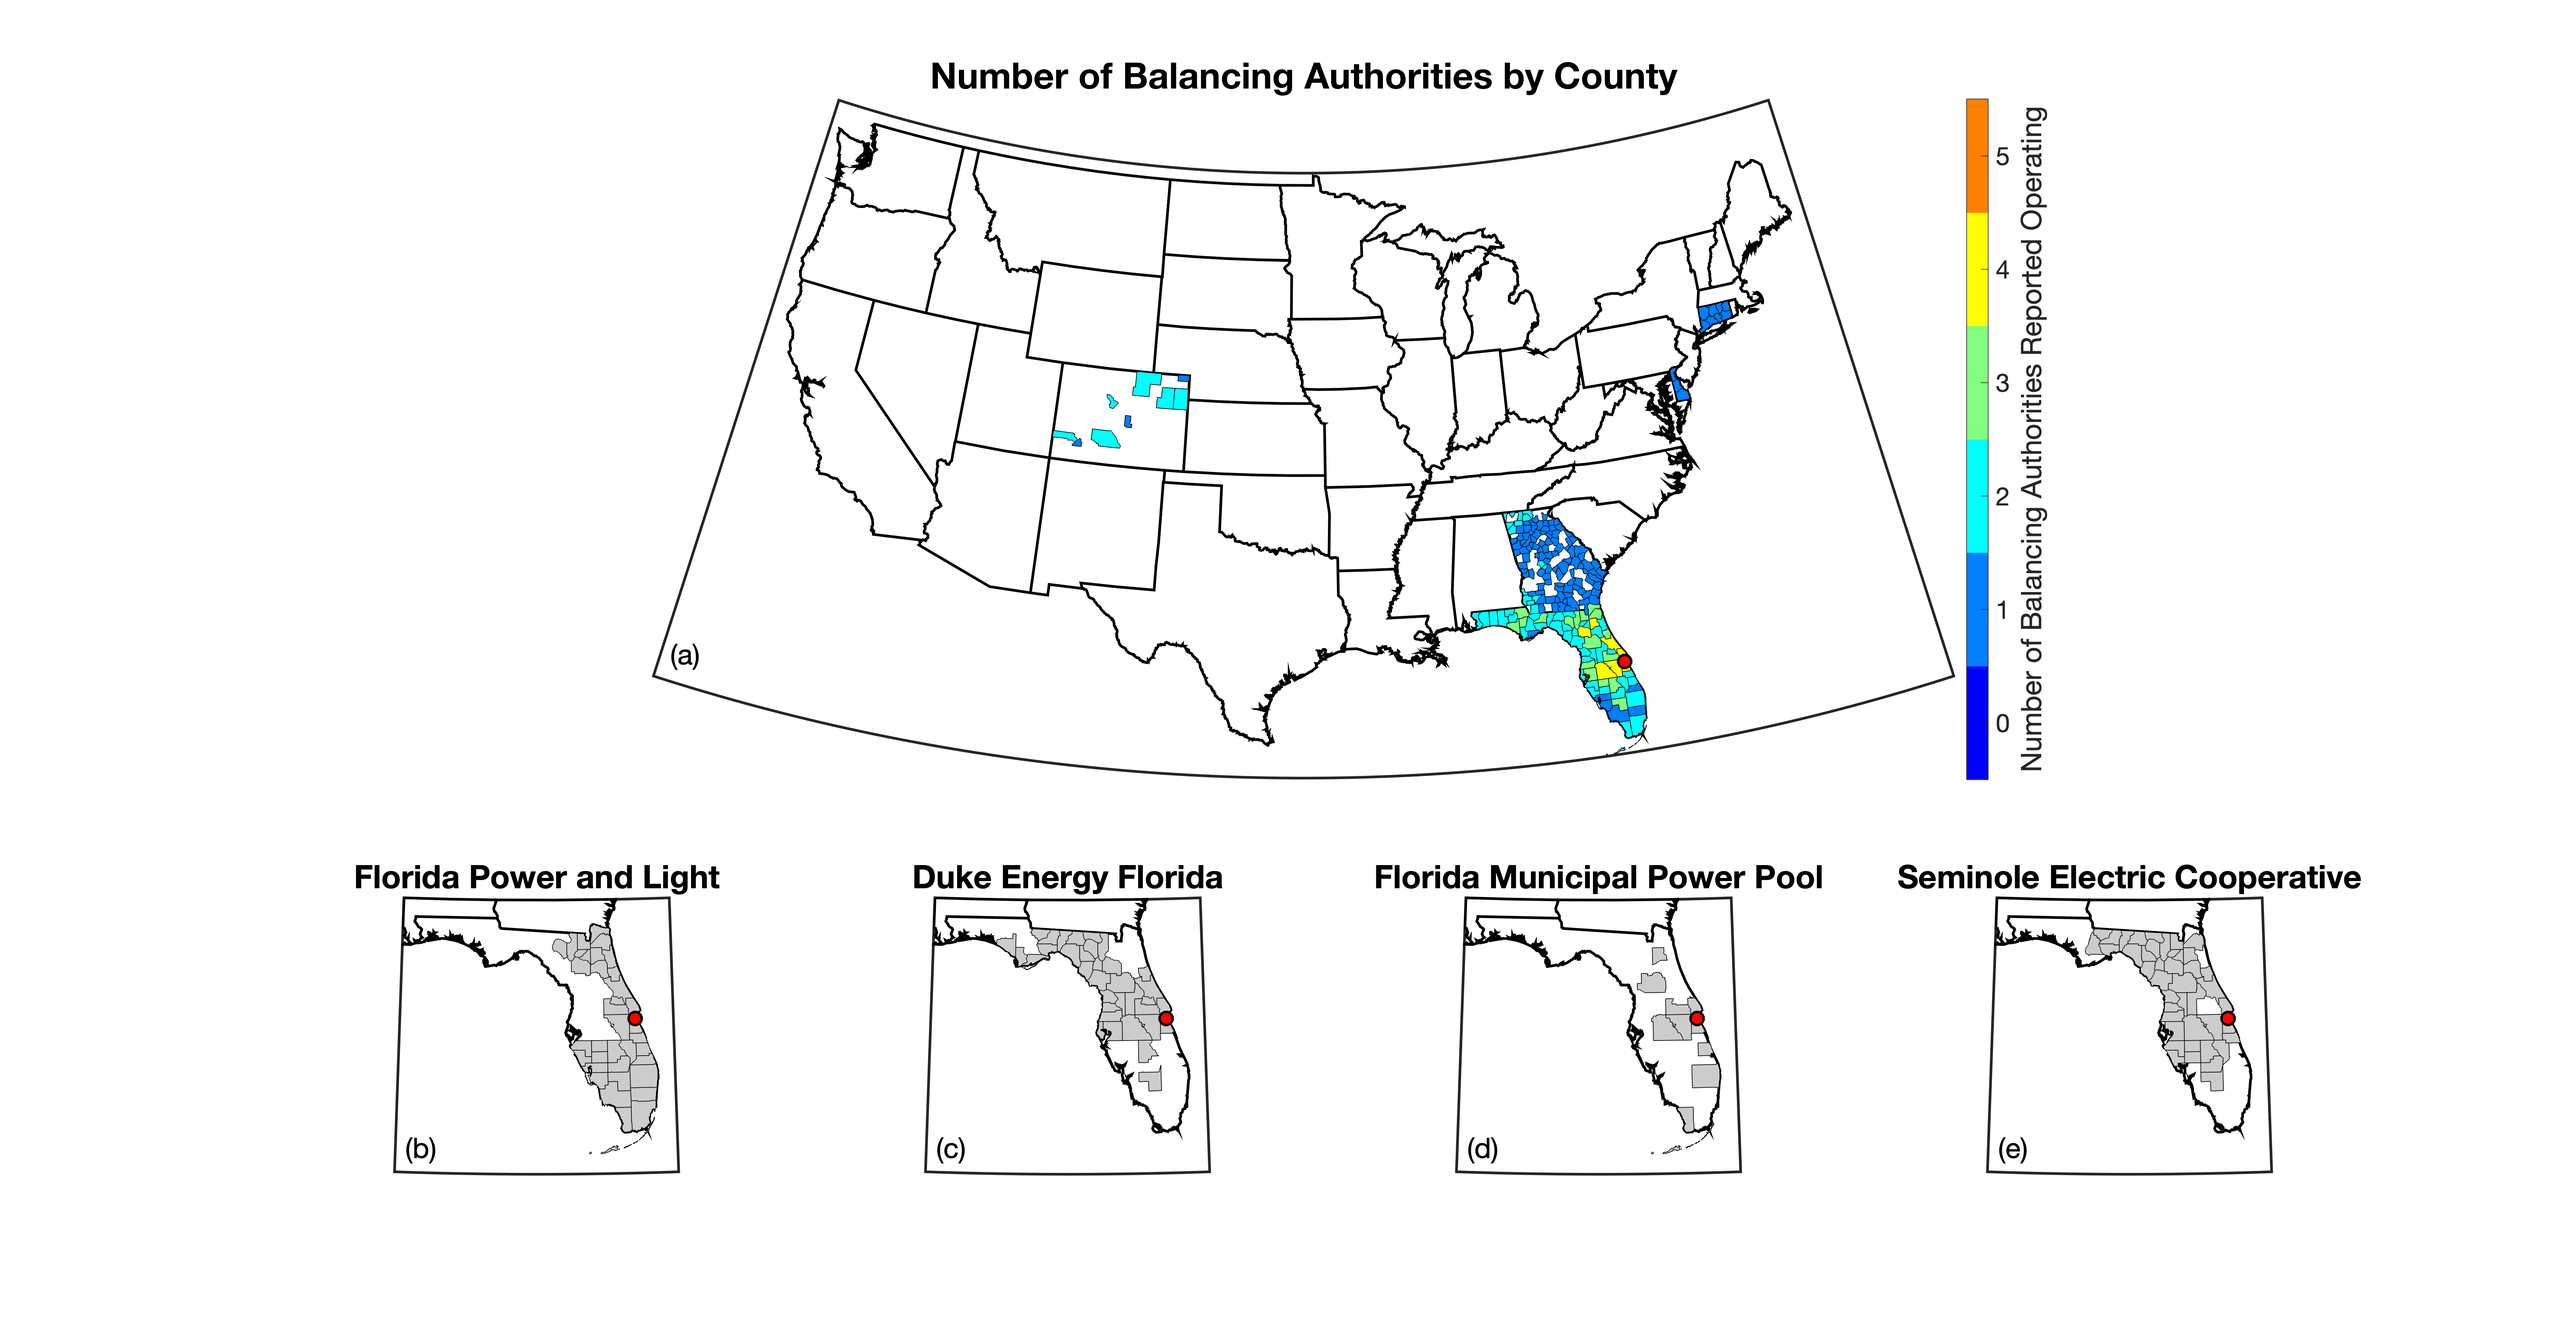
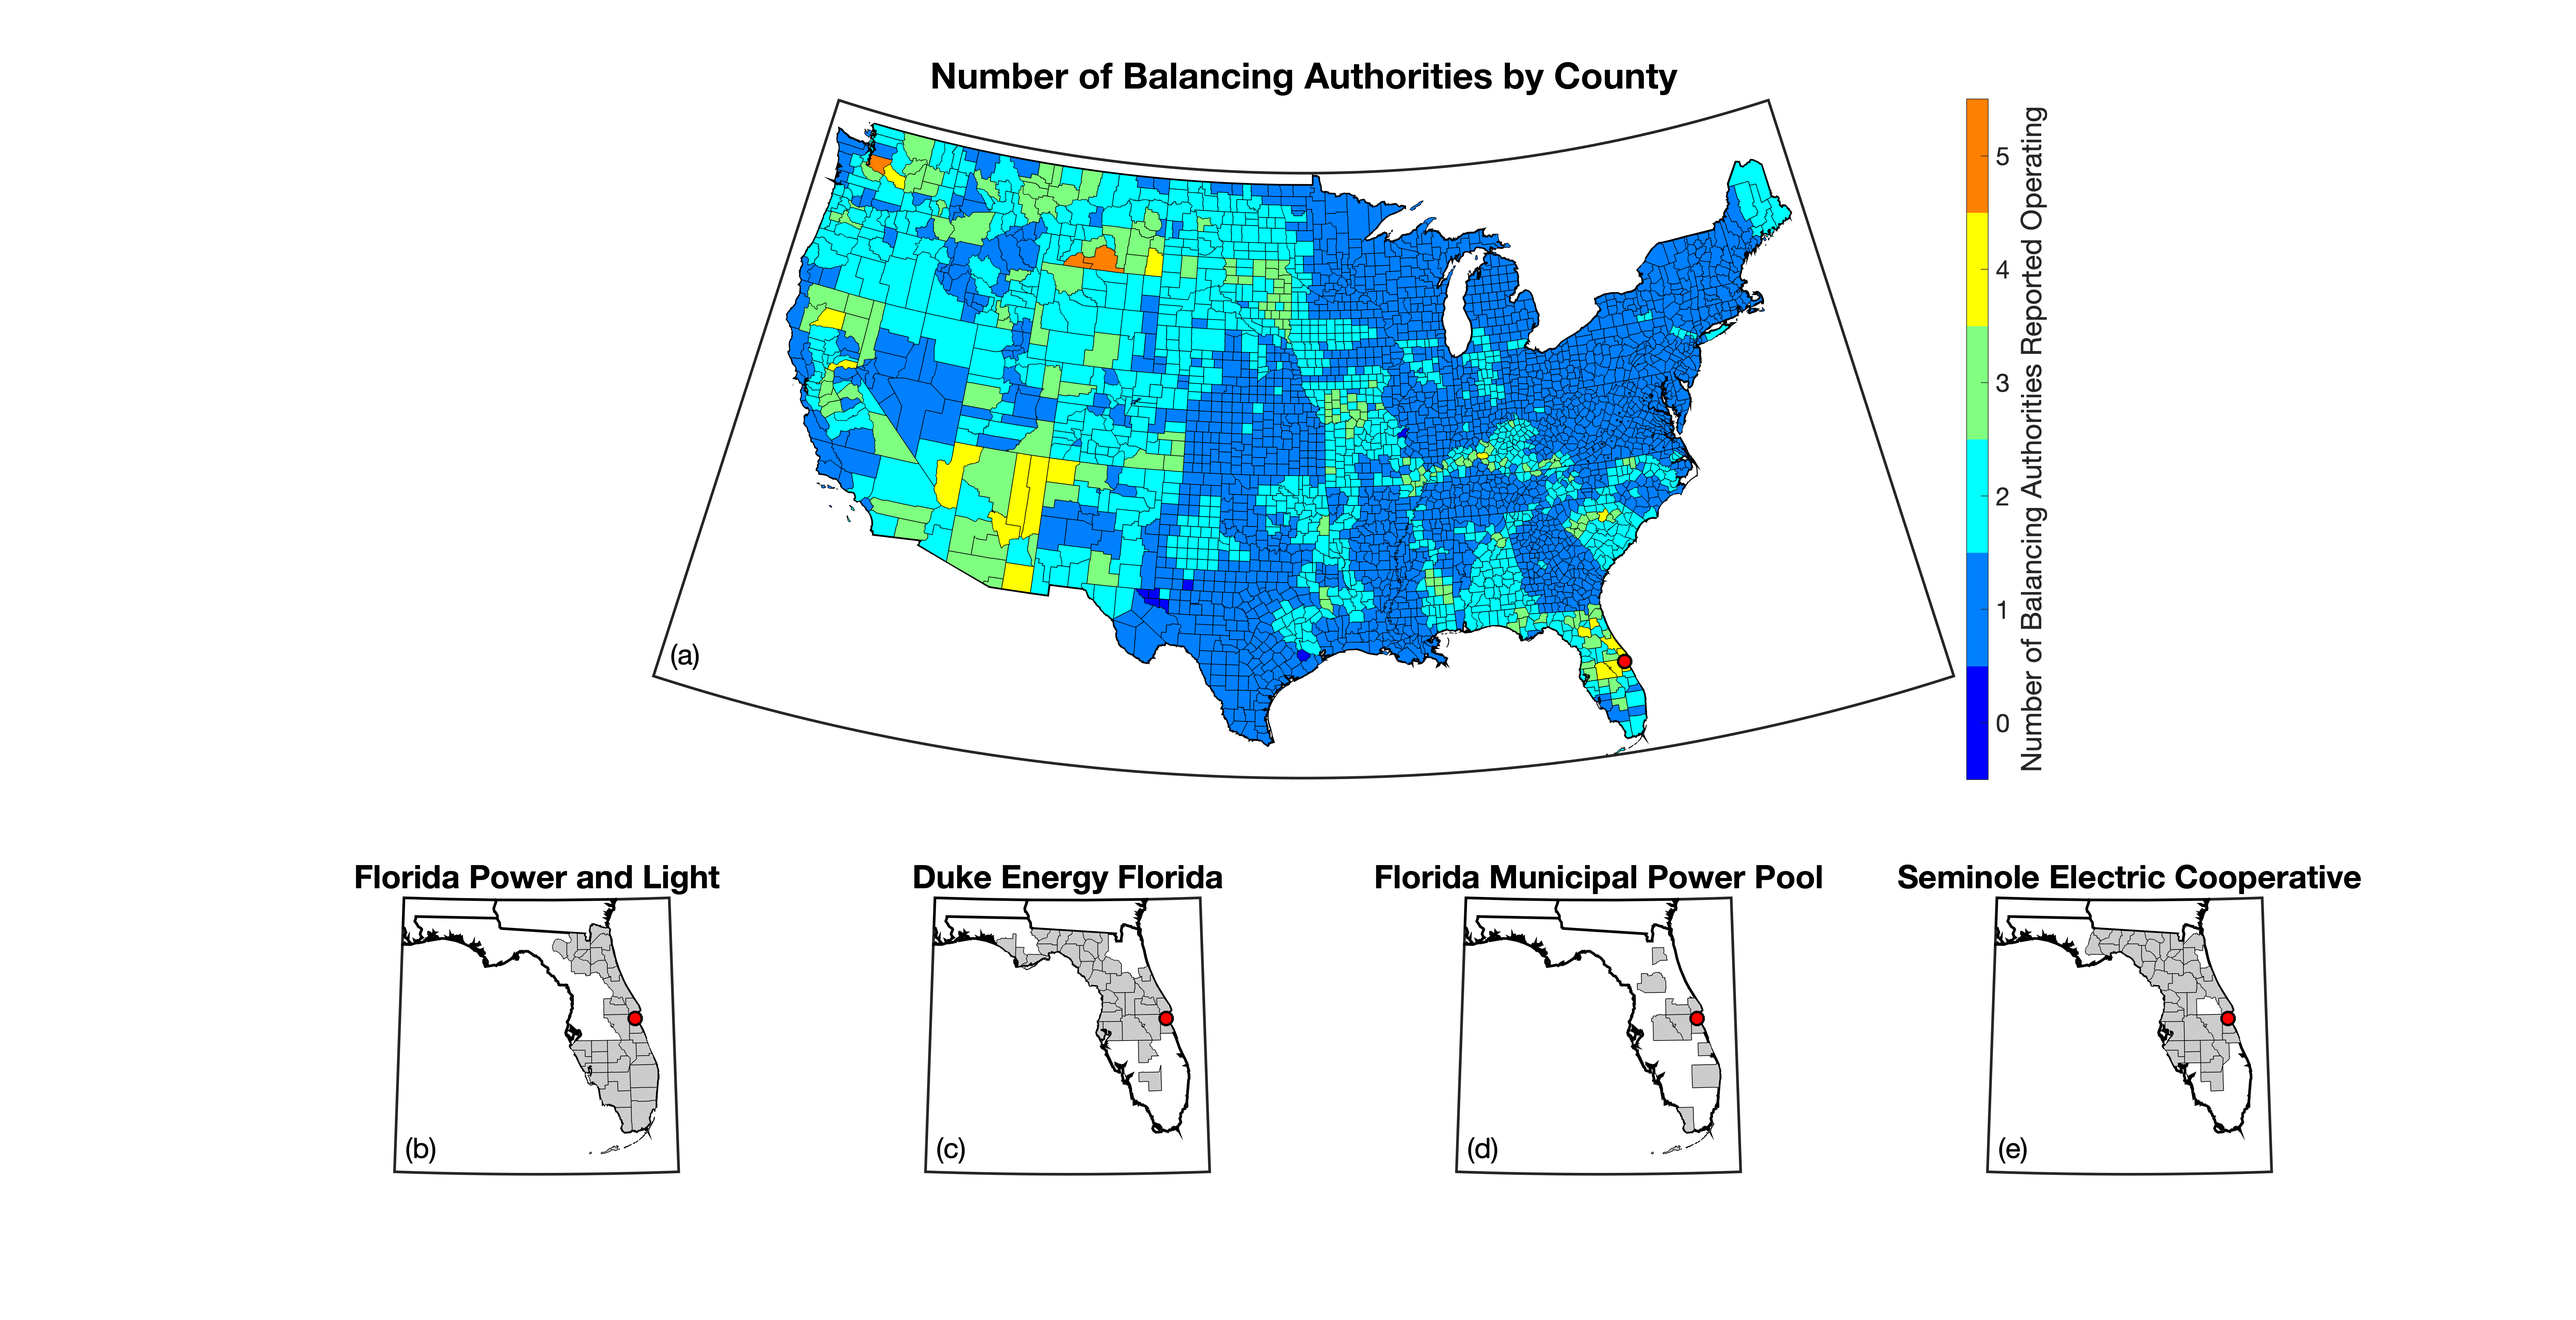
Finished overlapping BA map

Changed region(s): [[0.2812, 0.0937, 0.6875, 0.562]]

diff --git a/figures/Overlapping_Balancing_Authorities_Map.m b/figures/Overlapping_Balancing_Authorities_Map.m
@@ -71,8 +71,8 @@ states = shaperead('usastatelo','UseGeoCoords',true,'Selector',{@(name)~any(strc
 faceColors = makesymbolspec('Polygon',{'INDEX',[1 numel(states)],'FaceColor',polcmap(numel(states))});
 faceColors.FaceColor{1,3} = faceColors.FaceColor{1,3}./faceColors.FaceColor{1,3};
 geoshow(ax1,states,'DisplayType','polygon','SymbolSpec',faceColors,'LineWidth',2,'LineStyle','-');
-% for row = 1:size(Population,1)
-for row = 300:500
+for row = 1:size(Population,1)
+% for row = 300:500
     if Population(row,1) ~= 11000
        patchm(shapefile_counties(find(shapefile_counties_fips(:,1) == Population(row,1)),1).lat_vector,shapefile_counties(find(shapefile_counties_fips(:,1) == Population(row,1)),1).lon_vector,0,'FaceVertexCData',Population(row,3),'FaceColor','flat');
     end
